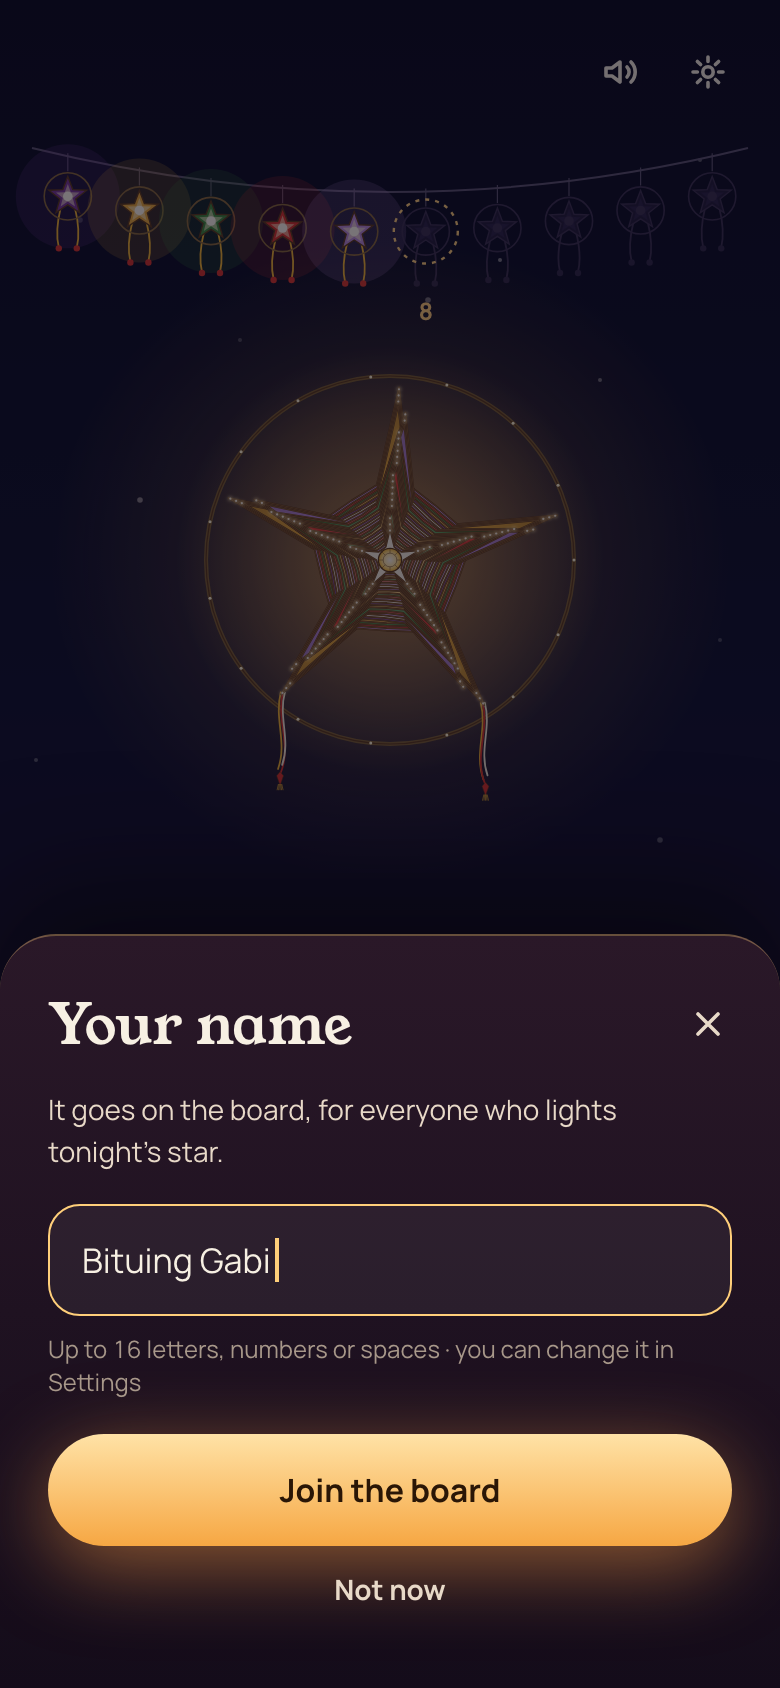
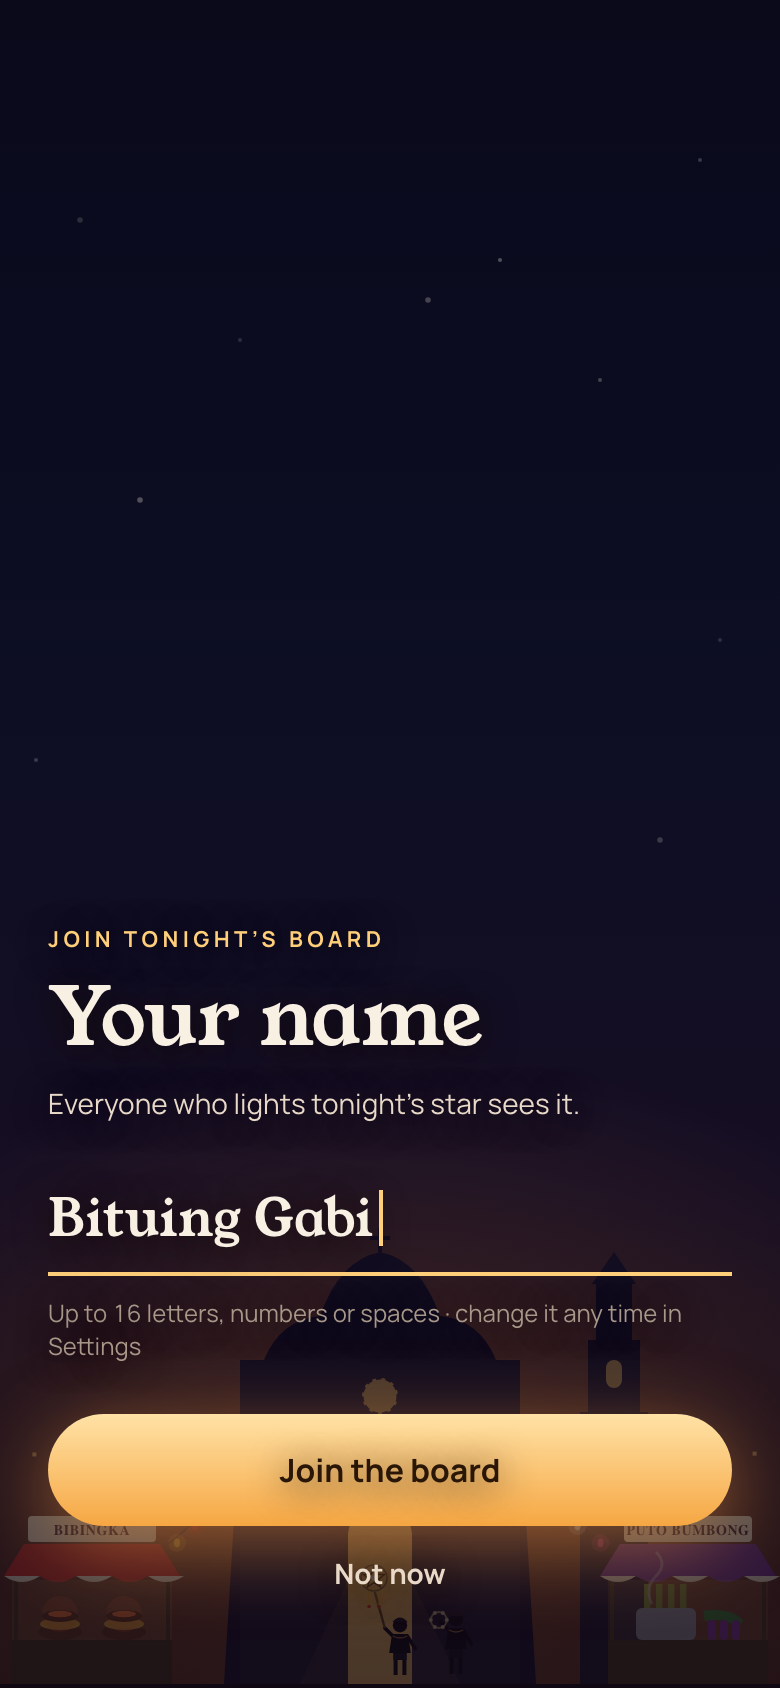
Settle on the floating board
The board floats over the dimmed street on phone and desktop, with no
card: the night as the heading, Tonight and Yesterday as two words, the
top ten as plain lines and your row in gold. The name prompt floats the
same way. The card versions and the other two desktop directions are
gone.

diff --git a/mockups/board.tsx b/mockups/board.tsx
@@ -3,8 +3,7 @@
 import { StrictMode, type ReactNode } from 'react'
 import { createRoot } from 'react-dom/client'
 import { Garland } from '../src/ui/parts.tsx'
-import { MiniParol } from '../src/draw/street.tsx'
-import { Button, Eyebrow, GEAR, Icon, PREVIEW, RUN, SOUND, Sheet, StarAt, Text, TopBar, Words, cream, gold, night, serif, Ground } from './kit.tsx'
+import { Button, Eyebrow, GEAR, Icon, PREVIEW, RUN, SOUND, StarAt, Text, TopBar, Words, cream, gold, night, serif, Ground } from './kit.tsx'
 
 const W = 390
 const H = 844
@@ -115,53 +114,31 @@ const TONIGHT = [
   ['Ligaya', 86],
 ] as const
 
-function Segments({ on }: { on: 'Tonight' | 'Yesterday' }) {
-  return (
-    <div style={{ display: 'flex', padding: 3, borderRadius: 999, background: 'rgba(255,255,255,0.08)', marginBottom: 6 }}>
-      {(['Tonight', 'Yesterday'] as const).map((label) => (
-        <span key={label} style={{ flex: 1, height: 34, borderRadius: 999, display: 'flex', alignItems: 'center', justifyContent: 'center', fontSize: 14, fontWeight: 700, background: label === on ? 'linear-gradient(180deg, #ffe2a6, #f6a743)' : 'transparent', color: label === on ? '#2a1606' : cream }}>
-          {label}
-        </span>
-      ))}
-    </div>
-  )
-}
-
-const Rank = ({ rank, name, rings, you = false }: { rank: number; name: string; rings: number; you?: boolean }) => (
-  <div style={{ display: 'flex', alignItems: 'center', gap: 14, height: you ? 50 : 38, padding: you ? '0 14px' : '0 4px', margin: you ? '6px -10px 0' : 0, borderRadius: 14, background: you ? 'rgba(255,207,122,0.1)' : 'transparent', border: you ? '1px solid rgba(255,207,122,0.35)' : 'none' }}>
-    <span style={{ width: 40, font: `400 ${rank <= 3 ? 20 : 17}px ${serif}`, color: rank <= 3 || you ? gold : dusk }}>{rank}</span>
-    <span style={{ flex: 1, fontSize: 15, fontWeight: you ? 700 : 400 }}>{name}</span>
-    <span style={{ font: `400 18px ${serif}` }}>{rings}</span>
-  </div>
-)
-
 /** The board: tonight's top ten and your own row pinned under them. */
-/** The board's contents, the same on a phone sheet and the desktop panel. */
-function BoardBody({ day }: { day: 'Tonight' | 'Yesterday' }) {
-  const rows = day === 'Tonight' ? TONIGHT : TONIGHT.map(([name, rings], i) => [['Tala', 'Kidlat', 'Liwayway', 'Paolo', 'Amihan', 'Mayumi', 'Dalisay', 'bituin88', 'Ligaya', 'Jun P.'][i], rings + 9] as const)
-  return (
-    <>
-      <Segments on={day} />
-      <div style={{ display: 'flex', flexDirection: 'column' }}>
-        {rows.map(([name, rings], i) => (
-          <Rank key={name} rank={i + 1} name={name} rings={rings} />
-        ))}
-      </div>
-      <Text style={{ textAlign: 'center', color: dusk, letterSpacing: 4, margin: '2px 0' }}>···</Text>
-      <Rank rank={day === 'Tonight' ? 312 : 205} name="You · Bituing Gabi" rings={day === 'Tonight' ? 52 : 61} you />
-      <Text style={{ marginTop: 14, fontSize: 12, textAlign: 'center', color: dusk }}>{day === 'Tonight' ? '4,120 lit tonight’s star · closes at midnight, Manila' : 'Final · 5,804 lit last night’s star'}</Text>
-    </>
-  )
-}
+const YESTERDAY = TONIGHT.map(([, rings], i) => [['Tala', 'Kidlat', 'Liwayway', 'Paolo', 'Amihan', 'Mayumi', 'Dalisay', 'bituin88', 'Ligaya', 'Jun P.'][i], rings + 9] as const)
 
+/** Phone: the board floats over the dimmed street in the end screen's place, like the desktop list. */
 function Board({ day }: { day: 'Tonight' | 'Yesterday' }) {
+  const tonight = day === 'Tonight'
+  const rows = tonight ? TONIGHT : YESTERDAY
   return (
     <>
-      <End />
-      <div style={{ position: 'absolute', inset: 0, background: 'rgba(10,6,20,0.55)' }} />
-      <Sheet title={day === 'Tonight' ? night.name : 'Intramuros'}>
-        <BoardBody day={day} />
-      </Sheet>
+      <Ground w={W} h={H} wide={false} stage={5} dim={0.6} />
+      <section style={{ position: 'absolute', left: 24, right: 24, top: 22, display: 'flex', flexDirection: 'column', gap: 10, textShadow: '0 2px 18px rgba(20,8,5,0.85)' }}>
+        <Back />
+        <div style={{ marginTop: 18 }}>
+          <Eyebrow>{tonight ? 'Tonight’s board' : 'Last night · final'}</Eyebrow>
+          <Text style={{ font: `400 40px/1.1 ${serif}` }}>{tonight ? night.name : 'Intramuros'}</Text>
+        </div>
+        <Tabs on={day} />
+        <div>
+          {rows.map(([name, rings], i) => (
+            <Line key={name} rank={i + 1} name={name} rings={rings} />
+          ))}
+          <Line rank={tonight ? 312 : 205} name="You · Bituing Gabi" rings={tonight ? 52 : 61} you />
+        </div>
+        <Text style={{ fontSize: 12, color: dusk }}>{tonight ? '4,120 lit tonight’s star · closes at midnight, Manila' : '5,804 lit last night’s star'}</Text>
+      </section>
     </>
   )
 }
@@ -234,47 +211,27 @@ function DeskEnd() {
   )
 }
 
-/** On desktop the board takes the words' place on the right: no dimming, the star stays in view. */
-function DeskBoard() {
+/** The first time you'd join the board: a name, once, floating like the board itself. */
+function Name() {
   return (
     <>
-      <Ground w={DW} h={DH} wide stage={5} dim={0.35} />
-      <TopBar left={<span />} right={<Icons />} />
-      <DeskGarland lit={5} toGo={8} />
-      <StarAt x={DW * 0.32} size={380} top={210} locks={RUN} glow="rgba(255,170,80,0.3)" failed={9} />
-      <section style={{ position: 'absolute', left: DW * 0.55, top: 150, width: 440, padding: '22px 24px 24px', borderRadius: 28, background: 'linear-gradient(180deg, #2a1828, #140c1a)', border: '1px solid rgba(255,207,122,0.35)', boxShadow: '0 20px 60px rgba(0,0,0,0.5)' }}>
-        <div style={{ display: 'flex', justifyContent: 'space-between', alignItems: 'center', marginBottom: 14 }}>
-          <Text style={{ font: `400 28px ${serif}` }}>
-            <span style={{ fontSize: 15, fontFamily: 'var(--font-ui)', fontWeight: 700, color: gold, marginRight: 10 }}>←</span>
-            {night.name}
-          </Text>
+      <Ground w={W} h={H} wide={false} stage={5} dim={0.6} />
+      <section style={{ position: 'absolute', left: 24, right: 24, bottom: 48, display: 'flex', flexDirection: 'column', gap: 10, textShadow: '0 2px 18px rgba(20,8,5,0.85)' }}>
+        <Eyebrow>Join tonight’s board</Eyebrow>
+        <Text style={{ font: `400 40px/1.1 ${serif}` }}>Your name</Text>
+        <Text style={{ fontSize: 14, lineHeight: 1.5, color: cream }}>Everyone who lights tonight’s star sees it.</Text>
+        <div style={{ marginTop: 10, height: 56, borderBottom: `2px solid ${gold}`, display: 'flex', alignItems: 'center', font: `400 26px ${serif}` }}>
+          Bituing Gabi<span style={{ width: 2, height: 28, marginLeft: 3, background: gold }} />
         </div>
-        <BoardBody day="Tonight" />
+        <Text style={{ fontSize: 12, color: dusk }}>Up to 16 letters, numbers or spaces · change it any time in Settings</Text>
+        <Button style={{ marginTop: 16 }}>Join the board</Button>
+        <Text style={{ marginTop: 4, textAlign: 'center', fontSize: 14, fontWeight: 700, color: cream }}>Not now</Text>
       </section>
     </>
   )
 }
 
-/** The first time you'd join the board: a name, once. */
-function Name() {
-  return (
-    <>
-      <End />
-      <div style={{ position: 'absolute', inset: 0, background: 'rgba(10,6,20,0.55)' }} />
-      <Sheet title="Your name">
-        <Text style={{ fontSize: 14, lineHeight: 1.5, color: cream, marginTop: -4 }}>It goes on the board, for everyone who lights tonight’s star.</Text>
-        <div style={{ marginTop: 16, height: 56, borderRadius: 16, border: `1px solid ${gold}`, background: 'rgba(255,255,255,0.05)', display: 'flex', alignItems: 'center', padding: '0 16px', fontSize: 17 }}>
-          Bituing Gabi<span style={{ width: 2, height: 22, marginLeft: 2, background: gold }} />
-        </div>
-        <Text style={{ marginTop: 8, fontSize: 12, color: dusk }}>Up to 16 letters, numbers or spaces · you can change it in Settings</Text>
-        <Button style={{ marginTop: 18 }}>Join the board</Button>
-        <Text style={{ marginTop: 12, textAlign: 'center', fontSize: 14, fontWeight: 700, color: cream }}>Not now</Text>
-      </Sheet>
-    </>
-  )
-}
-
-/* ── Desktop board, redrawn: no card. Three ways to float the board over the street ─────────────── */
+/* ── The board on desktop: no card, floating over the street ──────────────────────────────────────── */
 
 /** The end screen behind the board: the star stays, the words step aside. */
 const DeskBack = ({ children }: { children: ReactNode }) => (
@@ -292,10 +249,13 @@ const DeskBack = ({ children }: { children: ReactNode }) => (
 const Back = () => <Text style={{ fontSize: 14, fontWeight: 700, color: cream }}>← The star rests</Text>
 
 /** Tonight / Yesterday as two words, the chosen one underlined in gold. */
-const Tabs = () => (
+const Tabs = ({ on = 'Tonight' }: { on?: 'Tonight' | 'Yesterday' }) => (
   <div style={{ display: 'flex', gap: 22, fontSize: 14, fontWeight: 700 }}>
-    <span style={{ color: gold, paddingBottom: 4, borderBottom: `2px solid ${gold}` }}>Tonight</span>
-    <span style={{ color: dusk, paddingBottom: 4 }}>Yesterday</span>
+    {(['Tonight', 'Yesterday'] as const).map((label) => (
+      <span key={label} style={{ color: label === on ? gold : dusk, paddingBottom: 4, borderBottom: `2px solid ${label === on ? gold : 'transparent'}` }}>
+        {label}
+      </span>
+    ))}
   </div>
 )
 
@@ -307,7 +267,7 @@ const Line = ({ rank, name, rings, you = false, faint = false }: { rank: number 
   </div>
 )
 
-/** A · Floating list: the board is words over the street, like the end screen. */
+/** Desktop: the board is words over the street in the end screen's place, the star still in view. */
 function DeskFloat() {
   return (
     <DeskBack>
@@ -332,93 +292,6 @@ function DeskFloat() {
   )
 }
 
-/** B · Lanterns: the top three hang as parols with their names; the rest is a short list. */
-function DeskLanterns() {
-  const top = [
-    { name: 'Tala', rings: 128, x: 70, y: 64, r: 17, color: night.palette[2] },
-    { name: 'Liwayway', rings: 142, x: 210, y: 44, r: 24, color: night.palette[3] },
-    { name: 'bituin88', rings: 117, x: 350, y: 72, r: 15, color: night.palette[1] },
-  ]
-  return (
-    <DeskBack>
-      <section style={{ position: 'absolute', left: DW * 0.55, top: 176, width: 420, display: 'flex', flexDirection: 'column', gap: 8, textShadow: '0 2px 18px rgba(20,8,5,0.85)' }}>
-        <Back />
-        <div style={{ display: 'flex', justifyContent: 'space-between', alignItems: 'flex-end', marginTop: 10 }}>
-          <Eyebrow>Tonight’s board · {night.name}</Eyebrow>
-          <Tabs />
-        </div>
-        <div style={{ position: 'relative', height: 172 }}>
-          <svg width={420} height={120} style={{ position: 'absolute', left: 0, top: 0, overflow: 'visible' }} aria-hidden="true">
-            <path d="M0 8Q210 40 420 8" stroke="#5c5470" strokeWidth="1" fill="none" />
-            {top.map((p) => (
-              <MiniParol key={p.name} x={p.x} y={p.y} r={p.r} color={p.color} lit string={p.y - p.r * 1.25 - 14} />
-            ))}
-          </svg>
-          {top.map((p, i) => (
-            <div key={p.name} style={{ position: 'absolute', left: p.x - 60, top: p.y + p.r * 2.9 + 4, width: 120, textAlign: 'center' }}>
-              <Text style={{ fontSize: 13, fontWeight: 700 }}>
-                <span style={{ color: gold, fontFamily: serif, marginRight: 6 }}>{[2, 1, 3][i]}</span>
-                {p.name}
-              </Text>
-              <Text style={{ font: `400 20px ${serif}` }}>{p.rings}</Text>
-            </div>
-          ))}
-        </div>
-        <div>
-          {TONIGHT.slice(3, 8).map(([name, rings], i) => (
-            <Line key={name} rank={i + 4} name={name} rings={rings} />
-          ))}
-          <Line rank={312} name="You · Bituing Gabi" rings={52} you />
-        </div>
-        <Text style={{ fontSize: 12, color: dusk }}>4,120 lit tonight’s star · closes at midnight, Manila</Text>
-      </section>
-    </DeskBack>
-  )
-}
-
-/** C · Around you: the top three in one line, then the players just above and below you, and who to pass. */
-function DeskAround() {
-  const near: [number, string, number][] = [
-    [309, 'Kai', 55],
-    [310, 'Marisol', 54],
-    [311, 'Rafa', 53],
-    [312, 'You · Bituing Gabi', 52],
-    [313, 'Lumen', 52],
-    [314, 'Datu', 51],
-  ]
-  return (
-    <DeskBack>
-      <section style={{ position: 'absolute', left: DW * 0.55, top: 176, width: 420, display: 'flex', flexDirection: 'column', gap: 10, textShadow: '0 2px 18px rgba(20,8,5,0.85)' }}>
-        <Back />
-        <div style={{ display: 'flex', justifyContent: 'space-between', alignItems: 'flex-end', marginTop: 10 }}>
-          <Eyebrow>Tonight’s board · {night.name}</Eyebrow>
-          <Tabs />
-        </div>
-        <Text style={{ fontSize: 14, color: cream }}>
-          <span style={{ color: gold, fontFamily: serif }}>1</span> Liwayway <Num size={15}>142</Num>
-          <span style={{ color: dusk, margin: '0 8px' }}>·</span>
-          <span style={{ color: gold, fontFamily: serif }}>2</span> Tala <Num size={15}>128</Num>
-          <span style={{ color: dusk, margin: '0 8px' }}>·</span>
-          <span style={{ color: gold, fontFamily: serif }}>3</span> bituin88 <Num size={15}>117</Num>
-        </Text>
-        <div style={{ display: 'flex', alignItems: 'baseline', gap: 12, marginTop: 14 }}>
-          <Text style={{ font: `400 96px/0.9 ${serif}`, color: gold }}>#312</Text>
-          <Text style={{ fontSize: 15, color: cream }}>of 4,120</Text>
-        </div>
-        <Text style={{ fontSize: 15, color: cream }}>
-          <b style={{ color: gold }}>4 more rings</b> and you pass Kai
-        </Text>
-        <div style={{ marginTop: 6 }}>
-          {near.map(([rank, name, rings]) => (
-            <Line key={rank} rank={rank} name={name} rings={rings} you={rank === 312} faint={rank !== 312} />
-          ))}
-        </div>
-        <Text style={{ fontSize: 12, color: dusk }}>Closes at midnight, Manila</Text>
-      </section>
-    </DeskBack>
-  )
-}
-
 const SCREENS: { id: string; label: string; View: () => ReactNode; desk?: boolean }[] = [
   { id: 'landing', label: 'Landing · your rank', View: Landing },
   { id: 'landing-new', label: 'Landing · first visit', View: LandingNew },
@@ -428,10 +301,7 @@ const SCREENS: { id: string; label: string; View: () => ReactNode; desk?: boolea
   { id: 'name', label: 'Name, once', View: Name },
   { id: 'desk-landing', label: 'Desktop · landing', View: DeskLanding, desk: true },
   { id: 'desk-end', label: 'Desktop · end', View: DeskEnd, desk: true },
-  { id: 'desk-board', label: 'Desktop · the board in the words’ place', View: DeskBoard, desk: true },
-  { id: 'desk-float', label: 'A · Floating list', View: DeskFloat, desk: true },
-  { id: 'desk-lanterns', label: 'B · Lanterns for the top three', View: DeskLanterns, desk: true },
-  { id: 'desk-around', label: 'C · Around you', View: DeskAround, desk: true },
+  { id: 'desk-float', label: 'Desktop · the board', View: DeskFloat, desk: true },
 ]
 
 const Phone = ({ View, desk = false }: { View: () => ReactNode; desk?: boolean }) => (
